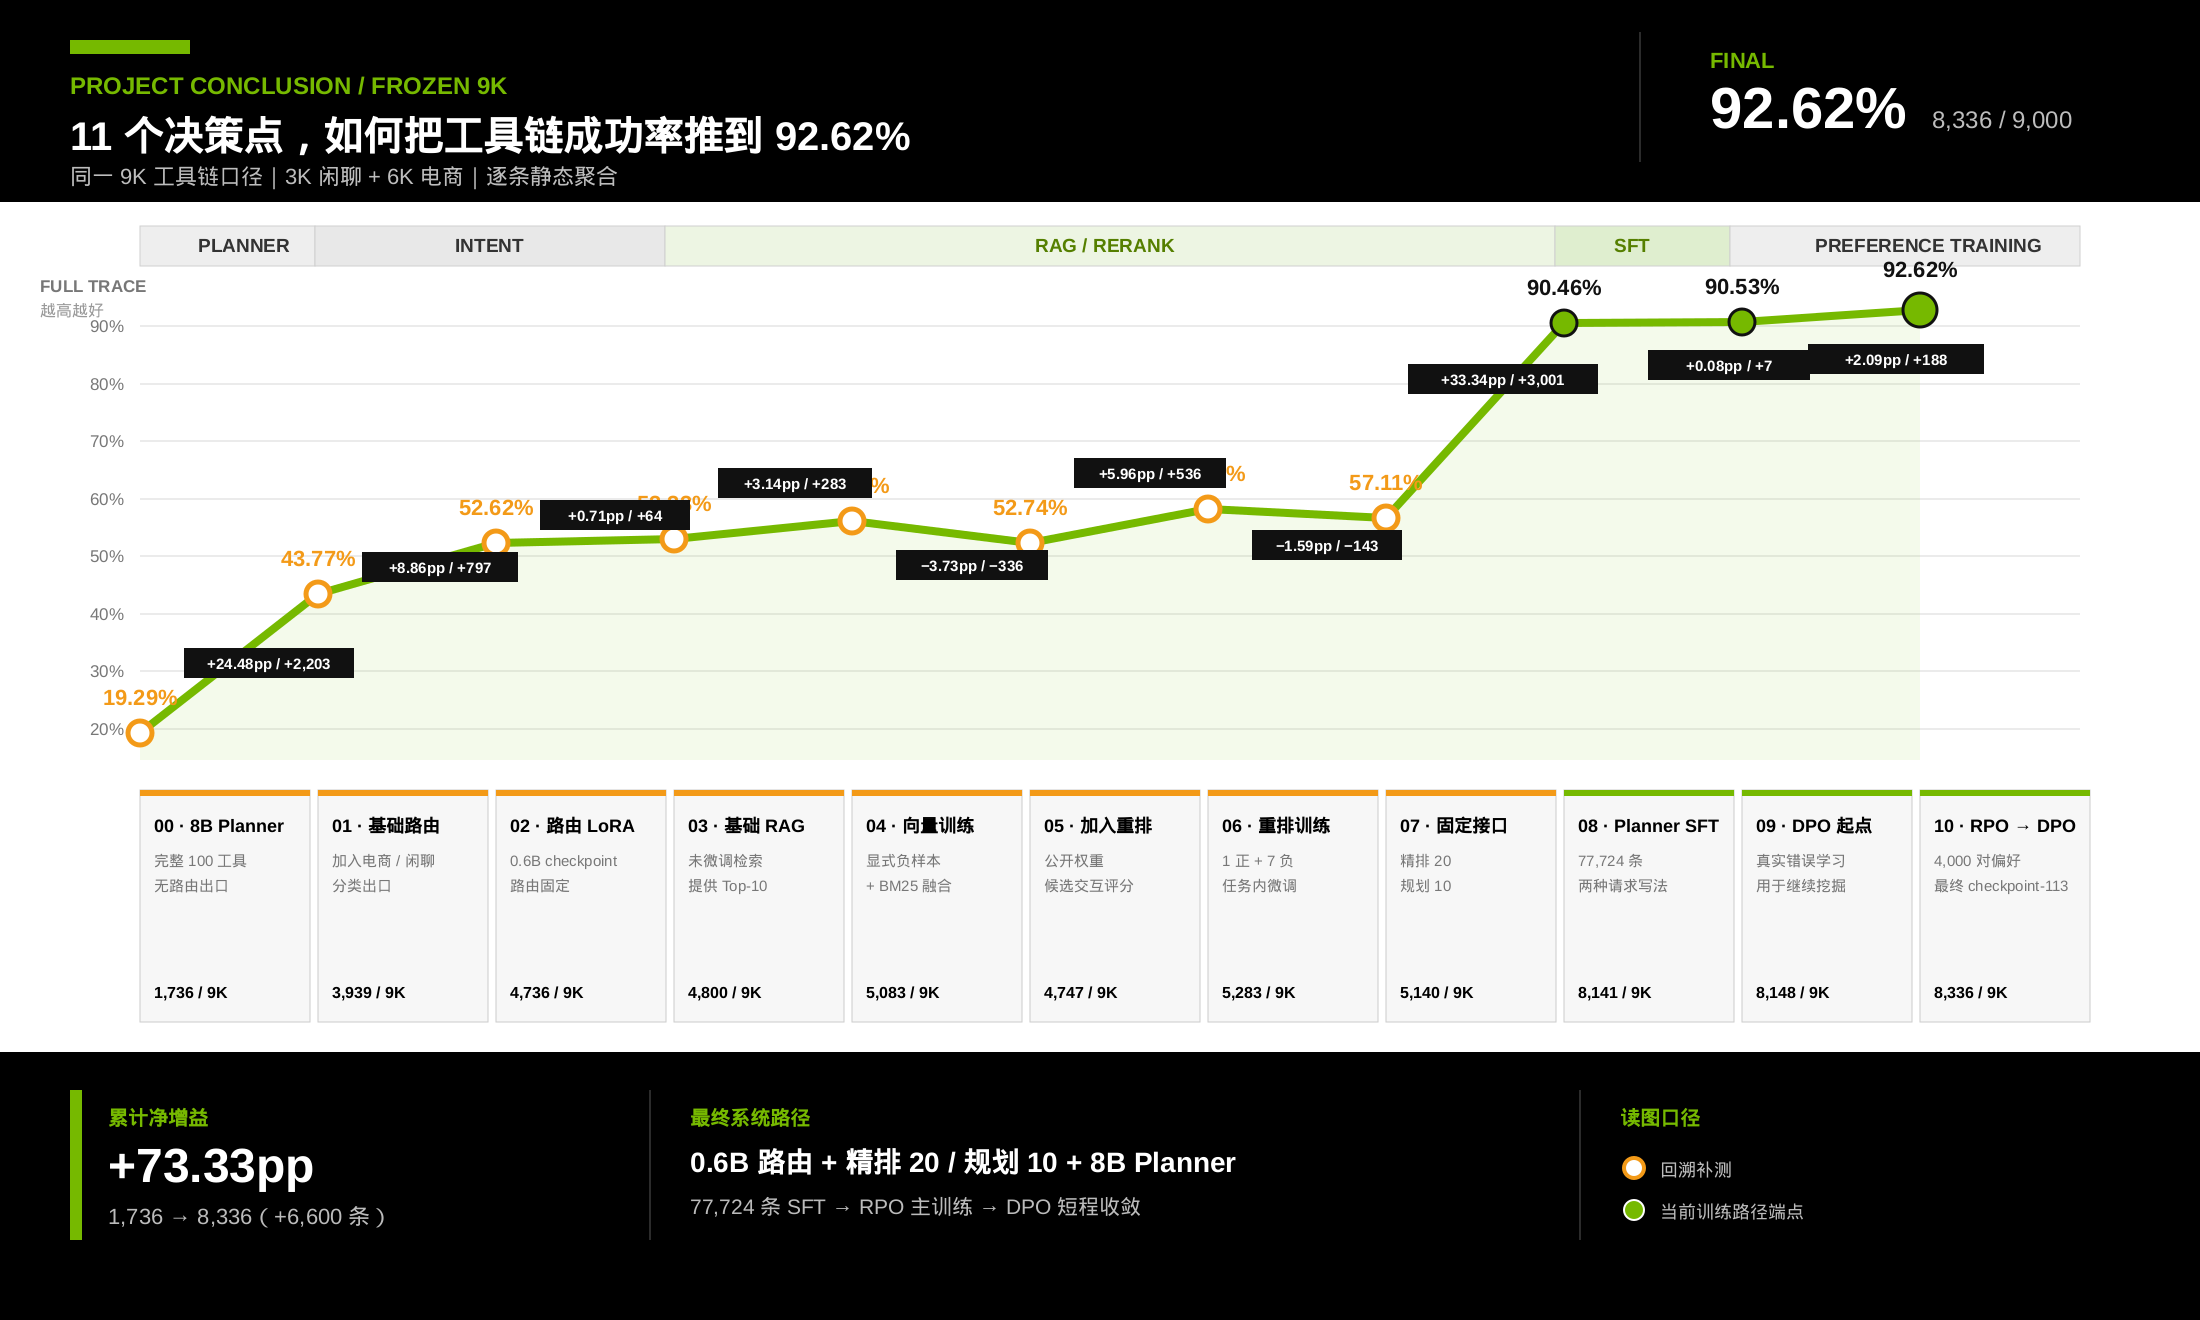
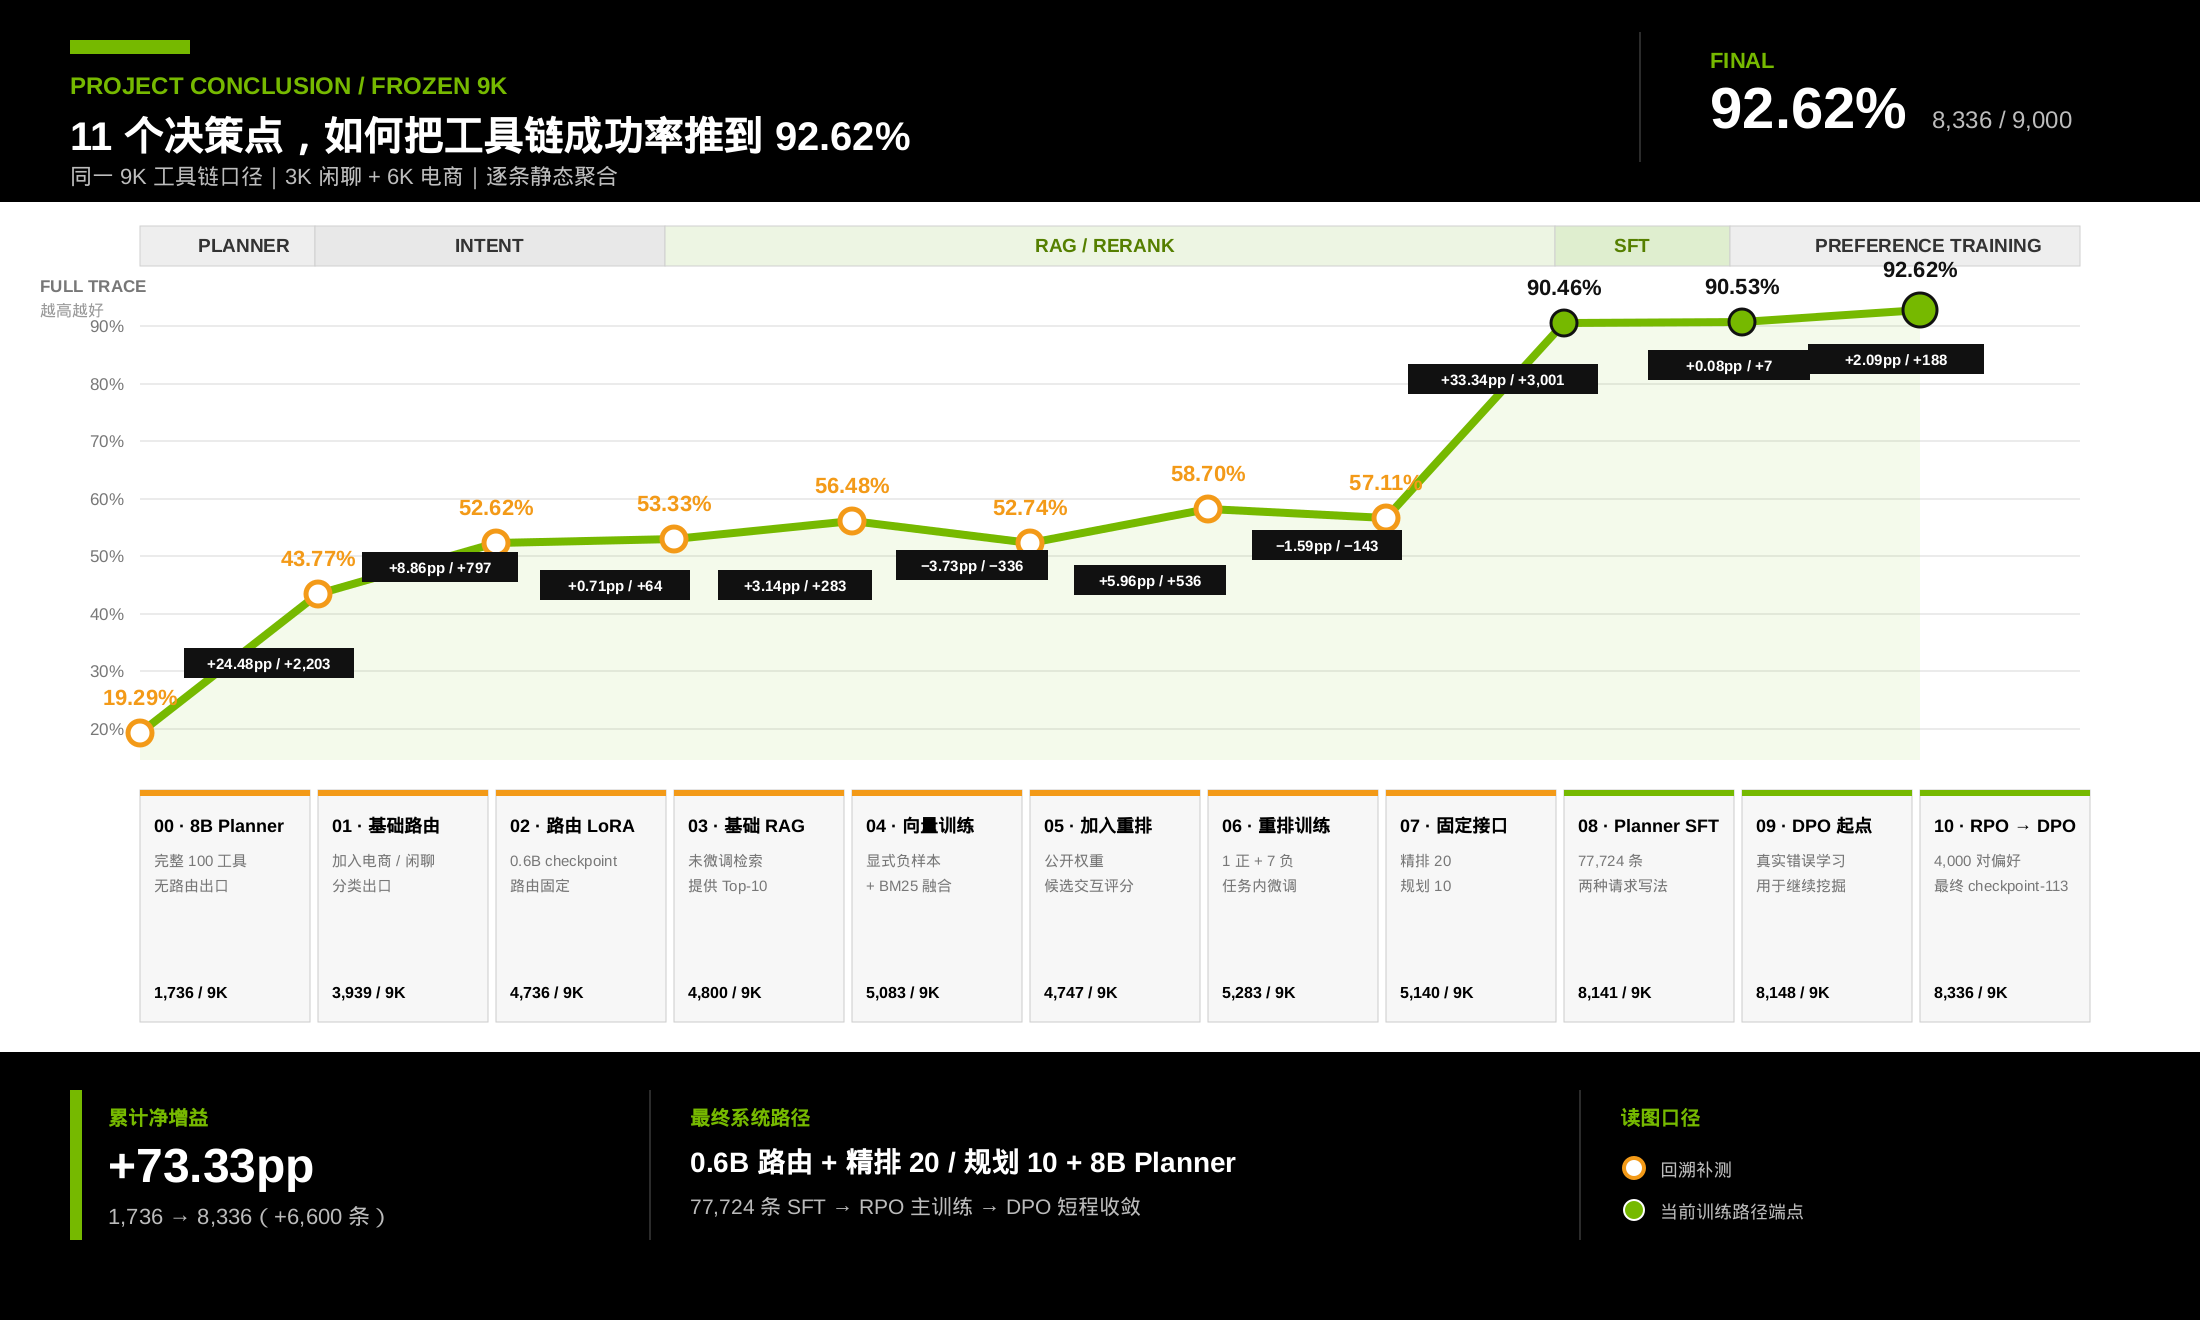
修正系统增益图标注遮挡

diff --git a/ecommerce-agent/index.html b/ecommerce-agent/index.html
@@ -1333,7 +1333,7 @@
             <p>从没有 Intent 与闲聊出口的原始 8B Planner（19.29%）到最终 92.62%；同一 9K 工具链口径上依次加入路由、检索、重排、监督训练与偏好训练，横向模型选型不混入累计折线。</p>
           </header>
           <div class="system-progress-image" tabindex="0" aria-label="可横向滚动查看完整折线图">
-            <img src="assets/agent-full-trace-progress.svg?v=2026080801" width="2200" height="1320" loading="lazy" decoding="async" alt="9K 工具链成功率累计增益图：没有 Intent 与闲聊出口的原始 8B Planner 从 19.29% 起步，依次加入路由、检索、重排、77,724 条监督训练、偏好训练起点、RPO 主训练与 DPO 短程收敛，最终达到 92.62%，即 8,336 / 9,000 条完整成功。">
+            <img src="assets/agent-full-trace-progress.svg?v=2026080802" width="2200" height="1320" loading="lazy" decoding="async" alt="9K 工具链成功率累计增益图：没有 Intent 与闲聊出口的原始 8B Planner 从 19.29% 起步，依次加入路由、检索、重排、77,724 条监督训练、偏好训练起点、RPO 主训练与 DPO 短程收敛，最终达到 92.62%，即 8,336 / 9,000 条完整成功。">
           </div>
           <figcaption>
             <strong>统一读图口径</strong>
